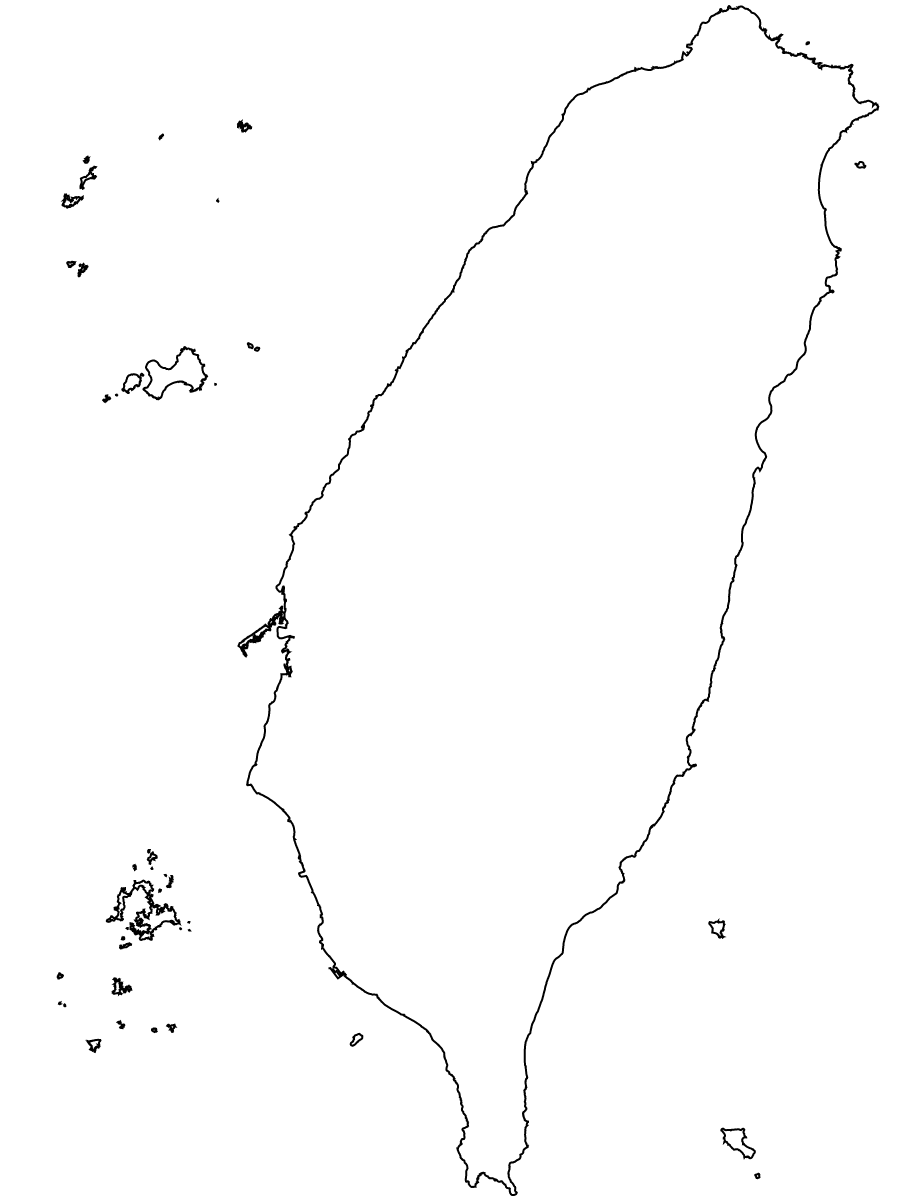
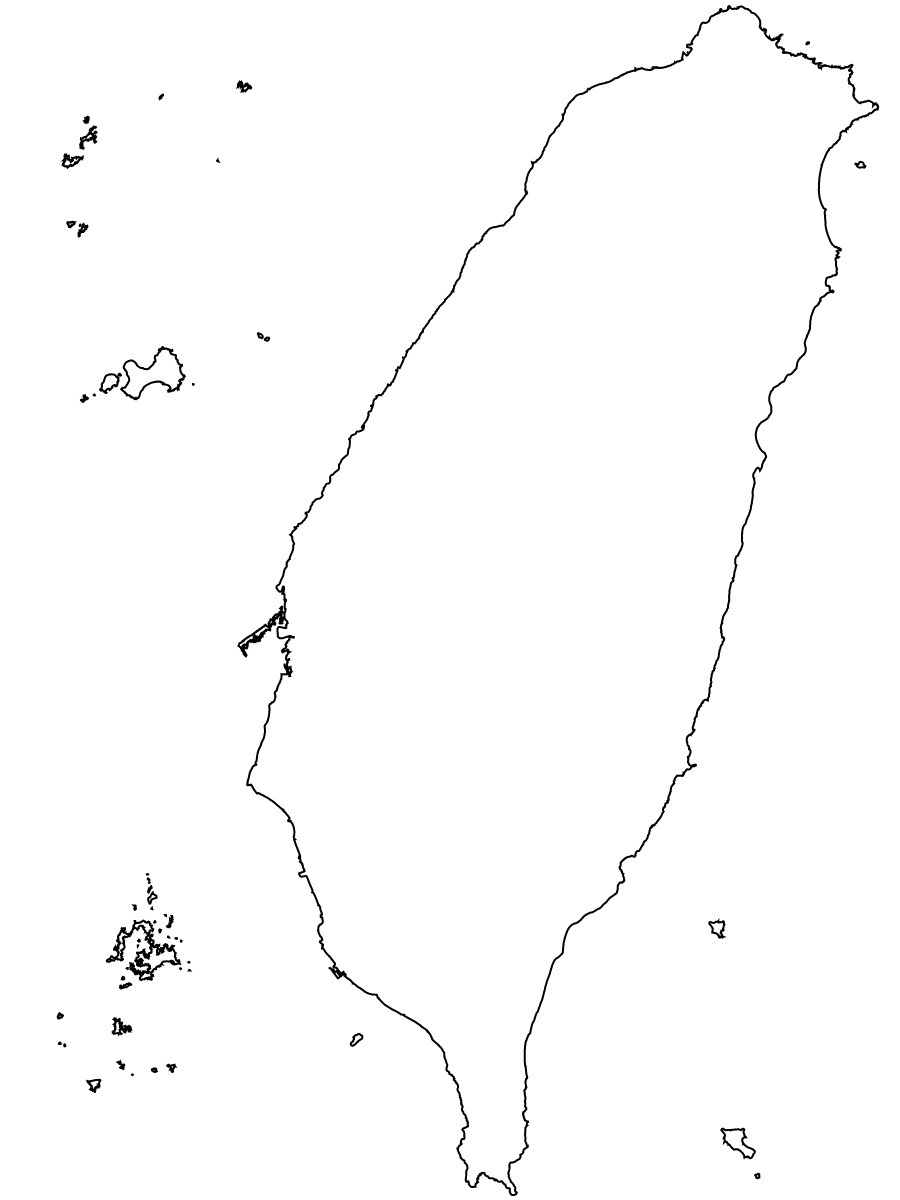
Update Positions (#18)

diff --git a/src/mercatorTw.js b/src/mercatorTw.js
@@ -13,16 +13,16 @@ const geoCoordinates = {
     width: 360, height: 600, offsetX: 0, offsetY: 0,
   },
   penghu: {
-    width: 90, height: 110, offsetX: -210, offsetY: 180,
+    width: 90, height: 130, offsetX: -210, offsetY: 200,
   },
   kinmen: {
     width: 120, height: 60, offsetX: -195, offsetY: -110,
   },
   lienchiang: {
-    width: 120, height: 120, offsetX: -195, offsetY: -200,
+    width: 120, height: 120, offsetX: -195, offsetY: -220,
   },
   wuqiu: {
-    width: 30, height: 30, offsetX: -150, offsetY: -125,
+    width: 20, height: 20, offsetX: -145, offsetY: -130,
   },
 };
 
@@ -48,7 +48,7 @@ export default () => {
   // Longitude and latitude coordinates of their centers
   const mainland = geoMercator().rotate([-120.97, -23.60]); let mainlandPoint;
   const penghu = geoMercator().rotate([-119.54, -23.45]); let penghuPoint;
-  const kinmen = geoMercator().rotate([-118.33, -24.44]); let kinmenPoint;
+  const kinmen = geoMercator().rotate([-118.40, -24.44]); let kinmenPoint;
   const lienchiang = geoMercator().rotate([-120.22, -26.16]); let lienchiangPoint;
   const wuqiu = geoMercator().rotate([-119.45, -24.98]); let wuqiuPoint;
 
